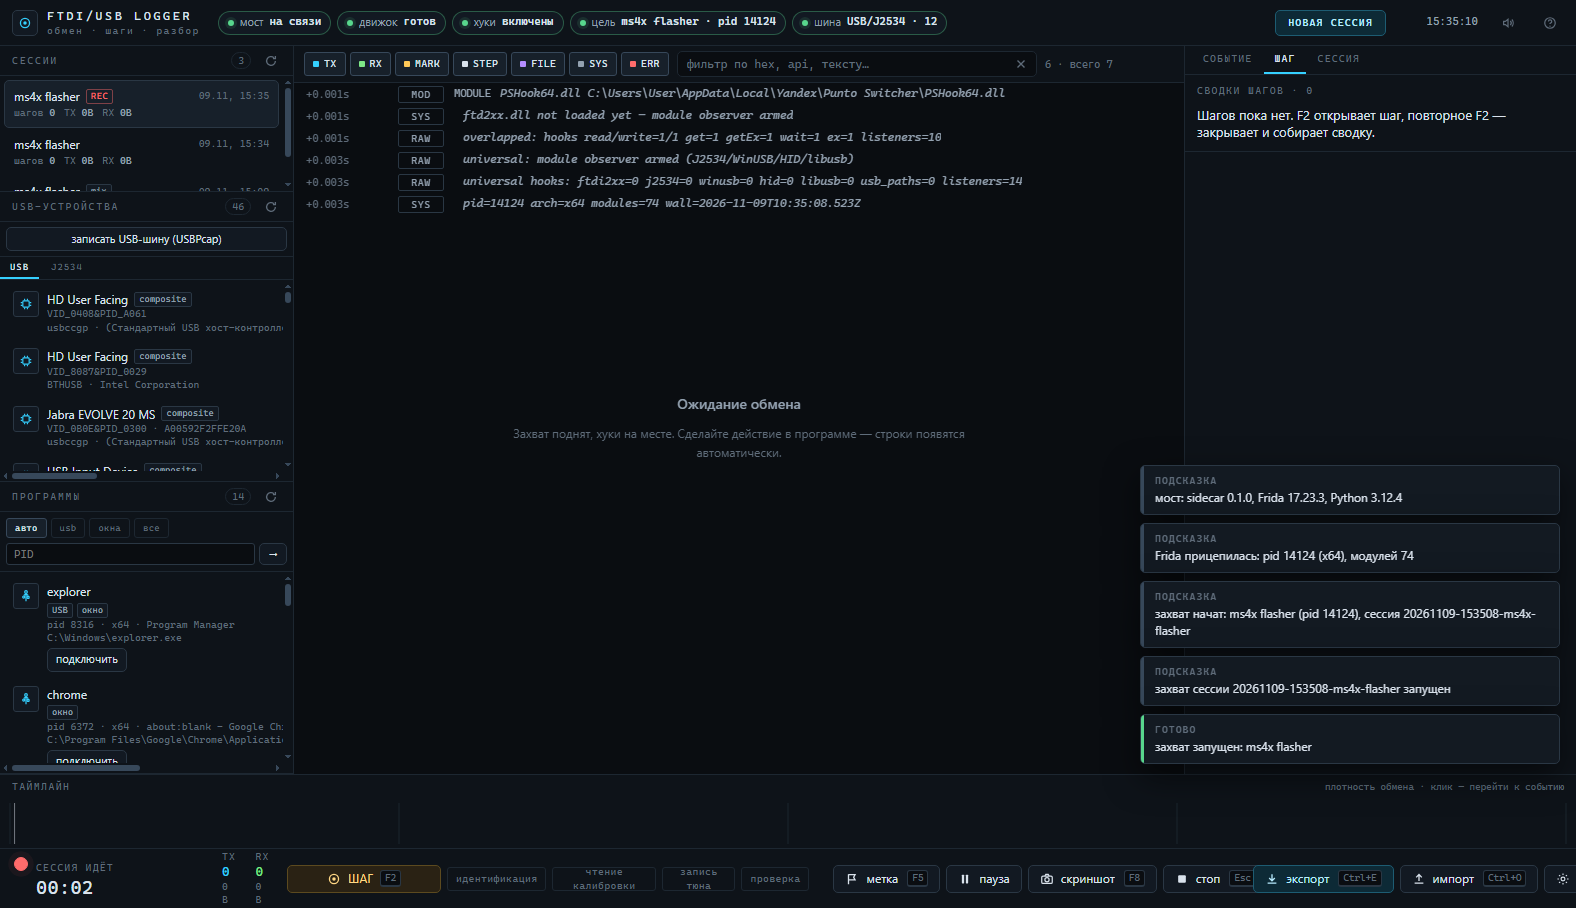
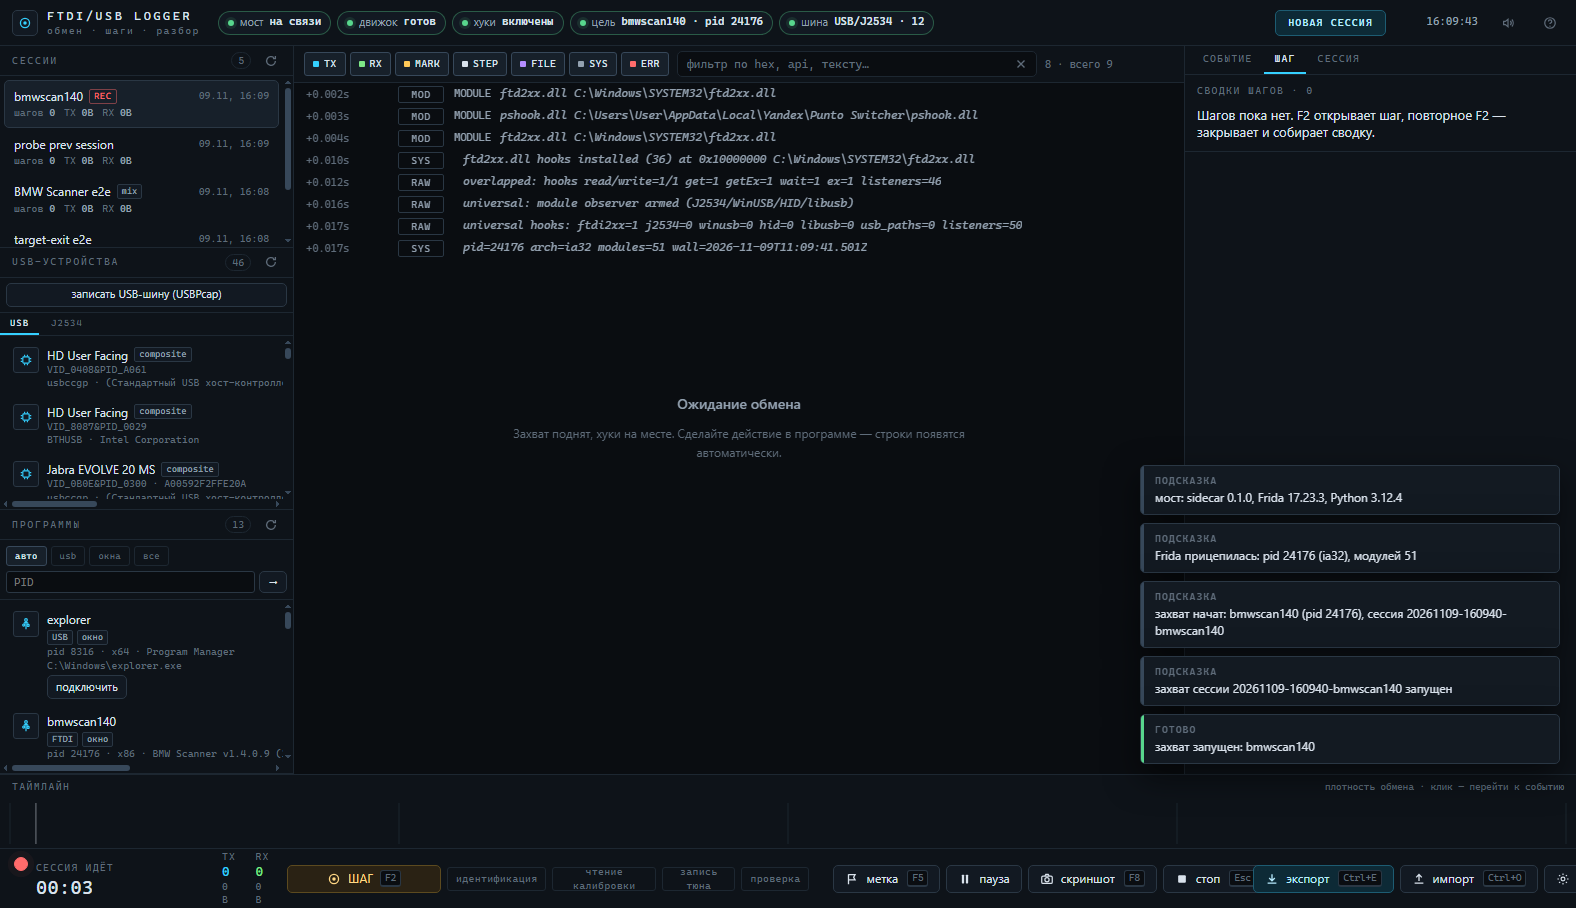
Авто-закрытие сессии при выходе программы и явный выбор цели
- engine: watchdog цели (раз в секунду проверяет PID) — если программа закрылась,
  сессия финализируется, хуки снимаются, устройства освобождаются (detach 8 c → force)
- ui: в «Новой сессии» программа больше НЕ выбирается заранее — кнопка «начать сессию»
  заблокирована до явного выбора (или ручного PID), чтобы случайно не прицепиться к explorer
- README: скриншот диалога новой сессии, описание авто-закрытия
- tests/e2e/target-exit.ps1: регресс на авто-закрытие
- tests/e2e/bmw-scanner.ps1: триггер Scanner → Scan! через WM_COMMAND (UIA нестабилен),
  RX на стенде без ЭБУ считается опциональным

diff --git a/ui/src/components/dialogs.ts b/ui/src/components/dialogs.ts
@@ -516,7 +516,9 @@ function renderNewSession(res: import("../types").NewSessionResult): void {
   const tools = res.tools ?? [];
 
   let chosenAdapter: string | null = devices.length ? devices[0].serial || devices[0].description : null;
-  let chosenPid: number | null = tools.length ? tools[0].pid : null;
+  // Программу НЕ выбираем заранее: иначе «начать сессию» цепляется к первому
+  // в списке (часто explorer) и кажется, что логер «держит» не то устройство.
+  let chosenPid: number | null = null;
   let manualPid: number | null = null;
 
   const body = el("div");
@@ -579,6 +581,7 @@ function renderNewSession(res: import("../types").NewSessionResult): void {
       manualPid = null;
       for (const n of Array.from(programs.children)) n.classList.remove("is-active");
       row.classList.add("is-active");
+      updateStart();
     });
     programs.append(row);
   }
@@ -586,6 +589,7 @@ function renderNewSession(res: import("../types").NewSessionResult): void {
 
   const manual = el("div", "rail-pid");
   manual.style.marginTop = "8px";
+  manual.style.gridTemplateColumns = "1fr auto";
   const manualInput = textInput("PID вручную, если программы нет в списке", "");
   const manualBtn = primary("выбрать PID", () => {
     const pid = Number(manualInput.value);
@@ -594,6 +598,7 @@ function renderNewSession(res: import("../types").NewSessionResult): void {
     chosenPid = pid;
     for (const n of Array.from(programs.children)) n.classList.remove("is-active");
     manualHint.textContent = `выбран PID ${pid}`;
+    updateStart();
   });
   manual.append(manualInput, manualBtn);
   const manualHint = el("div", "field__hint", "");
@@ -612,6 +617,14 @@ function renderNewSession(res: import("../types").NewSessionResult): void {
     void store.attach(pid, label, chosenAdapter ?? undefined);
   });
   const cancel = ghost("отмена", () => m.close());
+  start.disabled = true;
+  start.title = "сначала выберите программу (или введите PID)";
+  const updateStart = (): void => {
+    const pid = manualPid ?? chosenPid;
+    start.disabled = !pid;
+    start.title = pid ? "" : "сначала выберите программу (или введите PID)";
+  };
+  updateStart();
   m = modal({
     title: "Новая сессия: выбор цели",
     body,
@@ -624,6 +637,9 @@ function div(cls: string, text: string): HTMLElement {
   const d = el("div", cls, text);
   return d;
 }
+
+
+
 
 
 

diff --git a/engine/src/capture.rs b/engine/src/capture.rs
@@ -742,6 +742,51 @@ impl CaptureManager {
         }
     }
 
+    /// PID активной цели (для watchdog'а «программа закрылась»).
+    pub fn target_pid(&self) -> Option<u32> {
+        *self.shared.pid.lock()
+    }
+
+    /// Программа закрылась/упала: отпускаем захват и устройства, сессию финализируем.
+    /// Иначе UI продолжал бы показывать «сессия идёт» уже для мёртвого процесса.
+    pub async fn on_target_gone(&self) {
+        if self.shared.active.lock().is_none() {
+            return;
+        }
+        toast(
+            &self.bus,
+            "warn",
+            String::from("целевая программа завершилась — захват остановлен, устройства освобождены"),
+        );
+        match tokio::time::timeout(Duration::from_secs(8), self.detach()).await {
+            Ok(Ok(_)) => {}
+            Ok(Err(err)) => {
+                tracing::warn!("target-exit detach: {err:#}");
+                self.detach_force().await;
+            }
+            Err(_) => {
+                tracing::warn!("target-exit detach не ответил за 8 с — принудительно");
+                self.detach_force().await;
+            }
+        }
+    }
+
+    /// Раз в секунду проверяет, жива ли цель; при выходе программы сам закрывает сессию.
+    pub fn spawn_target_watchdog(self: &Arc<Self>) {
+        let this = self.clone();
+        tokio::spawn(async move {
+            let mut ticker = tokio::time::interval(Duration::from_millis(1000));
+            ticker.set_missed_tick_behavior(tokio::time::MissedTickBehavior::Skip);
+            loop {
+                ticker.tick().await;
+                if let Some(pid) = this.target_pid() {
+                    if !process_alive(pid) {
+                        this.on_target_gone().await;
+                    }
+                }
+            }
+        });
+    }
     /// Аварийное завершение, если штатный `detach` завис (мост/писатель не отвечают).
     ///
     /// Не ждём writer-задачу: глушим источник, снимаем pump и очищаем состояние. Сессия
@@ -1965,9 +2010,7 @@ fn packet_to_cmd(packet: &crate::usbpcap::UsbPacket) -> Cmd {
 #[cfg(windows)]
 fn terminate_process(pid: u32) -> bool {
     use windows::Win32::Foundation::CloseHandle;
-    use windows::Win32::System::Threading::{
-        OpenProcess, TerminateProcess, PROCESS_TERMINATE,
-    };
+    use windows::Win32::System::Threading::{OpenProcess, TerminateProcess, PROCESS_TERMINATE};
 
     // SAFETY: открываем процесс только с правом завершения; дескриптор закрывается.
     unsafe {
@@ -1983,6 +2026,34 @@ fn terminate_process(pid: u32) -> bool {
 #[cfg(not(windows))]
 fn terminate_process(_pid: u32) -> bool {
     false
+}
+
+/// Жив ли процесс (для watchdog'а цели). Не смогли открыть — считаем живым,
+/// чтобы не закрыть сессию из-за прав доступа.
+#[cfg(windows)]
+fn process_alive(pid: u32) -> bool {
+    use windows::Win32::Foundation::CloseHandle;
+    use windows::Win32::System::Threading::{
+        GetExitCodeProcess, OpenProcess, PROCESS_QUERY_LIMITED_INFORMATION,
+    };
+    // SAFETY: дескриптор открывается с минимальными правами и закрывается.
+    unsafe {
+        let Ok(handle) = OpenProcess(PROCESS_QUERY_LIMITED_INFORMATION, false, pid) else {
+            return false;
+        };
+        let mut code = 0u32;
+        let ok = GetExitCodeProcess(handle, &mut code).is_ok();
+        let _ = CloseHandle(handle);
+        if !ok {
+            return true;
+        }
+        code == 259 // STILL_ACTIVE
+    }
+}
+
+#[cfg(not(windows))]
+fn process_alive(_pid: u32) -> bool {
+    true
 }
 
 /// Unix-секунды (float) → RFC3339 UTC (миллисекунды); при мусоре — текущее время.
@@ -2942,3 +3013,5 @@ Error (134) API-0014: RESULT NOT FOUND\n";
         );
     }
 }
+
+

diff --git a/engine/src/lib.rs b/engine/src/lib.rs
@@ -28,6 +28,7 @@ pub async fn run(cli: config::Cli) -> anyhow::Result<()> {
     let (bus, _) = broadcast::channel::<models::ServerMsg>(4096);
     let capture = Arc::new(capture::CaptureManager::new(cfg.clone(), store.clone(), bus.clone()));
     capture.spawn_workers().await?;
+    capture.spawn_target_watchdog();
 
     let state = api::AppState {
         cfg: cfg.clone(),
@@ -58,4 +59,5 @@ pub async fn run(cli: config::Cli) -> anyhow::Result<()> {
     axum::serve(listener, app).await?;
     Ok(())
 }
+
 

diff --git a/README.md b/README.md
@@ -224,9 +224,13 @@ powershell -ExecutionPolicy Bypass -File scripts\run.ps1
 3. Открывается окно выбора: адаптер (FTDI serial/COM) и программа (список `auto`) или ручной PID.
 4. «начать сессию» — захват стартует заново, уже с новым шнурком/программой.
 
-Если движок остановлен или перезапущен, UI больше не «залипает» с индикатором `REC`: через
-~12 с появляется слой **«Движок не отвечает»**, а после запуска `logger.cmd` страница
-переподключается сама. Принудительный `detach` не даёт мосту держать сессию дольше 8 секунд.
+Если **целевая программа закрылась** — движок сам завершает сессию в течение ~1 с
+(«захват остановлен, устройства освобождены»), а не продолжает показывать `REC`. Если движок
+остановлен или перезапущен, UI через ~12 с показывает слой **«Движок не отвечает»**, а после
+запуска `logger.cmd` страница переподключается сама. Принудительный `detach` не даёт мосту
+держать сессию дольше 8 секунд.
+
+![Новая сессия: выбор адаптера и программы, кнопка старта без выбора заблокирована](assets/ui-new-session-dialog.png)
 
 ```mermaid
 sequenceDiagram
@@ -446,3 +450,4 @@ sessions/20261109-154706-bmw-scanner-e2e/
 ---
 
 <sub>Проект использует [Frida](https://frida.re), [Rust](https://www.rust-lang.org), [axum](https://github.com/tokio-rs/axum), [Vite](https://vitejs.dev). Старый логер и `parse_family.py` сохранены в `tools/legacy/` как эталон разбора.</sub>
+
